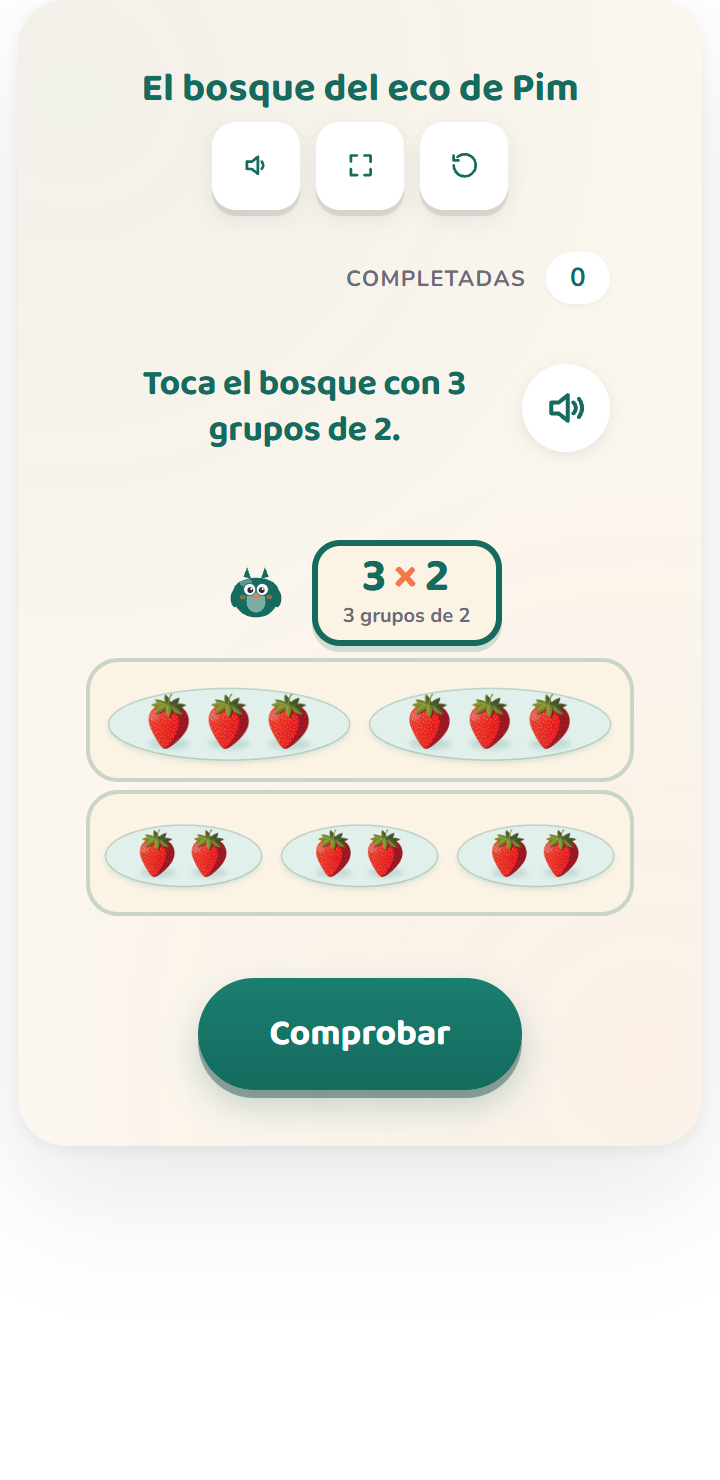
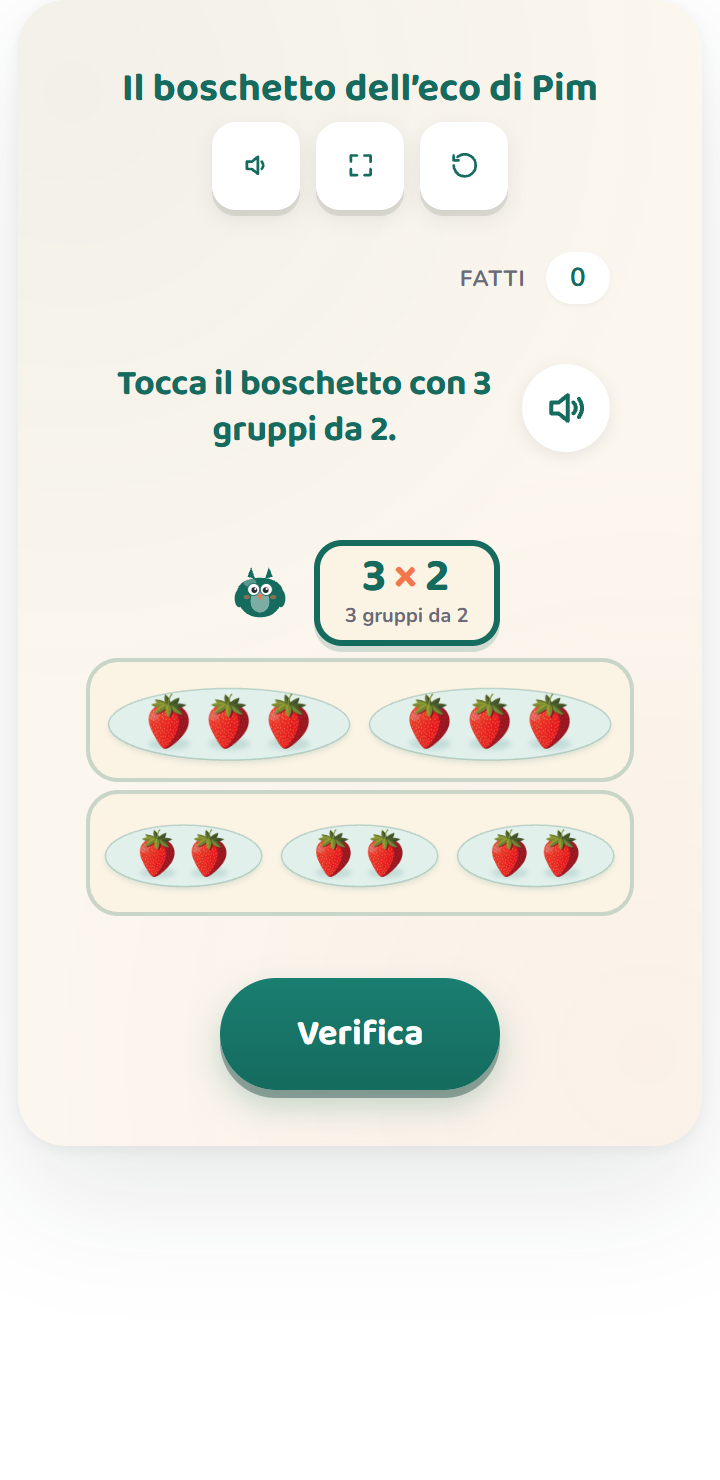
[FEATURE][I18N][IT] echo-grove #38 — Il boschetto dell'eco di Pim (moltiplicazione a gruppi uguali, classe seconda)
2nd it MATH: multiplication as equal groups (Pim the owl; read a rune g×s, tap the
grove with g gruppi da s, avoiding the same-total commutative twin). Rebuilt for the
Indicazioni nazionali. 3-agent native it ensemble.

- Activity-layer only: 0 lines to echo-grove-core.js / lcs-shell.* / Direction-A CSS.
- FRUIT_IT plurals (from canonical image-vocabulary.js) + 8 strings it: + cardLabel
  LANG-it branch + slug/page_title/page_intro it. No roundsL10n, no audio.
- GRADE classe seconda (GRADE_OVERRIDE it:'2') — de/fr/es/pt majority (meaning of
  multiplication = seconda; systematic tabelline = terza).
- STRAND «Numeri» AUTO (strand-names.ts, NO override). ⚠ the pt «Álgebra» auto-trap
  does NOT hit it — the it map already yields «Numeri».
- ⭐ Equal-groups wording «{g} gruppi da {s}» everywhere («da» = distributive "each");
  NEVER «per»/«volte» (the commutative shortcut this task blocks); × stays a silent glyph.
- Check button = «Verifica» (shell fact, lcs-shell.js) not «Controlla»; «Quando vuoi»
  dodges the pronto/pronta gender trap; «il gufo Pim»; 1 U+2019 in title «dell'eco».
- LOCAL only — NO deploy (it batch deploys at end).

Verify: FRUIT_IT 8/8 canonical + cardLabel it-branch + 8/8 strings + tokens + gruppi +
no per/volte + U+2019-only-in-title · verify-content-it 98/0 · preflight PASS · tsc 0-new ·
visual-qa it 48/48 + en 48/48 + it restore · personal Read 768 (2×3 cherries) / 360 (2×5
[…]

diff --git a/mini tools/echo-grove-activity.js b/mini tools/echo-grove-activity.js
@@ -52,6 +52,12 @@
     cherry: 'cerejas', strawberry: 'morangos', apple: 'maçãs', lemon: 'limões',
     pear: 'peras', banana: 'bananas', orange: 'laranjas', plum: 'ameixas'
   };
+  /* it — plurals from the canonical image-vocabulary.js (§20.5); native it math
+     ensemble confirmed. ⚠ «ciliegie» (not «ciliege»/«cilieggie»), «arance» (not «arancie»). */
+  var FRUIT_IT = {
+    cherry: 'ciliegie', strawberry: 'fragole', apple: 'mele', lemon: 'limoni',
+    pear: 'pere', banana: 'banane', orange: 'arance', plum: 'prugne'
+  };
 
   var C = {
     T: '#146B5E', BODY: '#E2F0EC', BOWL: '#EAF7EF', BOWL2: '#DCEFE9',
@@ -207,15 +213,15 @@
     id: 'echo-grove-activity',
 
     strings: {
-      title:       { en: 'The Echo Grove', de: 'Pims Echo-Hain', fr: 'Le bosquet de Pim', es: 'El bosque del eco de Pim', pt: 'O bosque do eco de Pim' },
-      instruction: { en: "Read Pim's rune, then tap the grove that matches it. Tap Check when you're ready.", de: 'Lies Pims Rune und tippe dann den Hain, der dazu passt. Tippe auf „Prüfen“, wenn du bereit bist.', fr: 'Lis la rune de Pim, puis touche le bosquet qui lui correspond. Touche Vérifier quand tu es prêt.', es: 'Lee la runa de Pim y luego toca el bosque que le corresponde. Toca «Comprobar» cuando estés listo.', pt: 'Leia a runa de Pim e depois toque no bosque que combina. Toque em Verificar quando estiver pronto.' },
-      /* {g} groups of {s} — the structure, the only numerals besides the rune */
-      prompt:      { en: 'Tap the grove with {g} groups of {s}.', de: 'Tippe den Hain mit {g} Gruppen mit je {s}.', fr: 'Touche le bosquet avec {g} groupes de {s}.', es: 'Toca el bosque con {g} grupos de {s}.', pt: 'Toque no bosque com {g} grupos de {s}.' },
-      hintPickOne: { en: 'Tap one of the groves first.', de: 'Tippe zuerst auf einen der Haine.', fr: 'Touche d’abord un des bosquets.', es: 'Primero toca uno de los bosques.', pt: 'Primeiro, toque em um dos bosques.' },
-      hintCount:   { en: 'Same fruit, different shape — count the groups.', de: 'Gleiche Früchte, andere Form – zähl die Gruppen.', fr: 'Mêmes fruits, forme différente — compte les groupes.', es: 'La misma fruta, en otra forma: cuenta los grupos.', pt: 'A mesma fruta, de outro jeito: conte os grupos.' },
-      runeGloss:   { en: '{g} groups of {s}', de: '{g} Gruppen mit je {s}', fr: '{g} groupes de {s}', es: '{g} grupos de {s}', pt: '{g} grupos de {s}' },
-      srRune:      { en: 'The rune says {g} groups of {s}.', de: 'Die Rune zeigt {g} Gruppen mit je {s}.', fr: 'La rune montre {g} groupes de {s}.', es: 'La runa muestra {g} grupos de {s}.', pt: 'A runa mostra {g} grupos de {s}.' },
-      cardLabel:   { en: 'A grove with {g} baskets, {s} {fruit} in each basket.', de: 'Ein Hain mit {g} Gruppen, in jeder Gruppe {s} {fruit}.', fr: 'Un bosquet avec {g} paniers, {s} {fruit} dans chaque panier.', es: 'Un bosque con {g} grupos, {s} {fruit} en cada grupo.', pt: 'Um bosque com {g} grupos, {s} {fruit} em cada grupo.' }
+      title:       { en: 'The Echo Grove', de: 'Pims Echo-Hain', fr: 'Le bosquet de Pim', es: 'El bosque del eco de Pim', pt: 'O bosque do eco de Pim', it: 'Il boschetto dell’eco di Pim' },
+      instruction: { en: "Read Pim's rune, then tap the grove that matches it. Tap Check when you're ready.", de: 'Lies Pims Rune und tippe dann den Hain, der dazu passt. Tippe auf „Prüfen“, wenn du bereit bist.', fr: 'Lis la rune de Pim, puis touche le bosquet qui lui correspond. Touche Vérifier quand tu es prêt.', es: 'Lee la runa de Pim y luego toca el bosque que le corresponde. Toca «Comprobar» cuando estés listo.', pt: 'Leia a runa de Pim e depois toque no bosque que combina. Toque em Verificar quando estiver pronto.', it: 'Leggi la runa di Pim, poi tocca il boschetto giusto. Quando vuoi, tocca Verifica.' },
+      /* {g} groups of {s} — the structure, the only numerals besides the rune. it: «{g} gruppi da {s}» (never «per»/«volte» — that is the commutative shortcut this task blocks) */
+      prompt:      { en: 'Tap the grove with {g} groups of {s}.', de: 'Tippe den Hain mit {g} Gruppen mit je {s}.', fr: 'Touche le bosquet avec {g} groupes de {s}.', es: 'Toca el bosque con {g} grupos de {s}.', pt: 'Toque no bosque com {g} grupos de {s}.', it: 'Tocca il boschetto con {g} gruppi da {s}.' },
+      hintPickOne: { en: 'Tap one of the groves first.', de: 'Tippe zuerst auf einen der Haine.', fr: 'Touche d’abord un des bosquets.', es: 'Primero toca uno de los bosques.', pt: 'Primeiro, toque em um dos bosques.', it: 'Prima tocca uno dei boschetti.' },
+      hintCount:   { en: 'Same fruit, different shape — count the groups.', de: 'Gleiche Früchte, andere Form – zähl die Gruppen.', fr: 'Mêmes fruits, forme différente — compte les groupes.', es: 'La misma fruta, en otra forma: cuenta los grupos.', pt: 'A mesma fruta, de outro jeito: conte os grupos.', it: 'Stessa frutta, forma diversa — conta i gruppi.' },
+      runeGloss:   { en: '{g} groups of {s}', de: '{g} Gruppen mit je {s}', fr: '{g} groupes de {s}', es: '{g} grupos de {s}', pt: '{g} grupos de {s}', it: '{g} gruppi da {s}' },
+      srRune:      { en: 'The rune says {g} groups of {s}.', de: 'Die Rune zeigt {g} Gruppen mit je {s}.', fr: 'La rune montre {g} groupes de {s}.', es: 'La runa muestra {g} grupos de {s}.', pt: 'A runa mostra {g} grupos de {s}.', it: 'La runa dice {g} gruppi da {s}.' },
+      cardLabel:   { en: 'A grove with {g} baskets, {s} {fruit} in each basket.', de: 'Ein Hain mit {g} Gruppen, in jeder Gruppe {s} {fruit}.', fr: 'Un bosquet avec {g} paniers, {s} {fruit} dans chaque panier.', es: 'Un bosque con {g} grupos, {s} {fruit} en cada grupo.', pt: 'Um bosque com {g} grupos, {s} {fruit} em cada grupo.', it: 'Un boschetto con {g} gruppi, {s} {fruit} in ogni gruppo.' }
     },
 
     defaults: {},
@@ -449,7 +455,7 @@
   var CHECK_SVG = '<svg viewBox="0 0 24 24" width="100%" height="100%" aria-hidden="true"><circle cx="12" cy="12" r="11" fill="' + C.GOOD + '"/><path d="M7 12.5l3.2 3.2L17 9" fill="none" stroke="#fff" stroke-width="2.4" stroke-linecap="round" stroke-linejoin="round"/></svg>';
   /* structure + fruit, ANSWER WITHHELD (identical phrasing for correct + decoys) */
   function cardLabel(api, c, fruit) {
-    var fl = (LANG === 'de' && FRUIT_DE[fruit]) ? FRUIT_DE[fruit] : (LANG === 'fr' && FRUIT_FR[fruit]) ? FRUIT_FR[fruit] : (LANG === 'es' && FRUIT_ES[fruit]) ? FRUIT_ES[fruit] : (LANG === 'pt' && FRUIT_PT[fruit]) ? FRUIT_PT[fruit] : fruit;
+    var fl = (LANG === 'de' && FRUIT_DE[fruit]) ? FRUIT_DE[fruit] : (LANG === 'fr' && FRUIT_FR[fruit]) ? FRUIT_FR[fruit] : (LANG === 'es' && FRUIT_ES[fruit]) ? FRUIT_ES[fruit] : (LANG === 'pt' && FRUIT_PT[fruit]) ? FRUIT_PT[fruit] : (LANG === 'it' && FRUIT_IT[fruit]) ? FRUIT_IT[fruit] : fruit;
     return interp(api.t('cardLabel'), { g: c.g, s: c.s, fruit: fl });
   }
 

diff --git a/frontend/app/[locale]/activities/[slug]/page.tsx b/frontend/app/[locale]/activities/[slug]/page.tsx
@@ -90,7 +90,7 @@ const GRADE_OVERRIDE: Record<string, Record<string, string>> = {
   'wordclass.adjective-adverb.l-2-1-e': { fr: '3' },                     // FR CE2: l'adverbe comme classe nommée + le CHOIX fonctionnel adjectif/adverbe = attendu de fin de cycle 2 (l'adjectif seul = CE1); the CCSS-Grade-2→CE1 auto-map under-levels it. en Grade 2 unchanged
   'halfway-harbors.nearest.3-nbt-a-1': { pt: '4' },                      // PT: arredondamento à dezena/centena = BNCC 4º ano (EF04MA cálculo por estimativa e arredondamento), NÃO 3º — graduar pela HABILIDADE, não pelo teto numérico (~1000); de/es/fr herdam o grade 3 nativo, só pt sobe
   'sunny-side-diner.compound-order.l-k-1-f': { fr: '1' },                // FR CP: produire une phrase complète + coordonner deux groupes avec « et » = charnière oral→écrit CP (au-dessus de la production orale GS, en deçà de l'analyse CE1); native 'K'→« Grande section » too low; en Kindergarten unchanged
-  'echo-grove.match-the-rune.3-oa-a-1': { de: '2', fr: '2', es: '2', pt: '2' },    // Multiplikation als gleiche Gruppen / kleines Einmaleins = DE Klasse 2 (US Grade 3 a year higher). FR CE1 (operator-ruled): le sens de la multiplication (groupes égaux, petits nombres, avant les tables) = attendu CE1 (CE2 = tables + multiplication posée); native '3'→CE2 too high; de Klasse-2 ≈ fr-CE1; twin of maple-bakery division-sens; « Nombres et calcul » auto-map → NO STRAND override. ES: la multiplicación como grupos iguales / suma de sumandos iguales = 2.º primaria en SEP/NEM (las tablas formales → 3.º); espeja numbers-court/ten-stones es:'2'. Strand auto "Sentido numérico" → NO STRAND override. PT: multiplicação como grupos iguais / adição de parcelas iguais = BNCC 2º ano (EF02MA07/08) → espelha es; ⚠ PT strand-map auto → "Álgebra" (ERRADO p/ 3.OA no BR) → STRAND override pt:"Números"
+  'echo-grove.match-the-rune.3-oa-a-1': { de: '2', fr: '2', es: '2', pt: '2', it: '2' },    // Multiplikation als gleiche Gruppen / kleines Einmaleins = DE Klasse 2 (US Grade 3 a year higher). FR CE1 (operator-ruled): le sens de la multiplication (groupes égaux, petits nombres, avant les tables) = attendu CE1 (CE2 = tables + multiplication posée); native '3'→CE2 too high; de Klasse-2 ≈ fr-CE1; twin of maple-bakery division-sens; « Nombres et calcul » auto-map → NO STRAND override. ES: la multiplicación como grupos iguales / suma de sumandos iguales = 2.º primaria en SEP/NEM (las tablas formales → 3.º); espeja numbers-court/ten-stones es:'2'. Strand auto "Sentido numérico" → NO STRAND override. PT: multiplicação como grupos iguais / adição de parcelas iguais = BNCC 2º ano (EF02MA07/08) → espelha es; ⚠ PT strand-map auto → "Álgebra" (ERRADO p/ 3.OA no BR) → STRAND override pt:"Números". IT: la moltiplicazione come gruppi uguali / raggruppamenti (numeri piccoli, il SENSO prima delle tabelline) = classe seconda nelle Indicazioni (le tabelline sistematiche = traguardo classe terza); strand auto → «Numeri» (nucleo corretto, NIENTE «Algebra» nella primaria) → NO STRAND override (a differenza di pt)
   'maple-bakery.share.3-oa-a-2': { de: '2', fr: '2' },                    // Division (Verteilen/Aufteilen, ohne Rest) introduced alongside Einmaleins = DE Klasse 2. FR CE1 (operator-ruled): division-SENS (partage/groupement, petits nombres, sans reste, imagé) = l'approche de la division au CE1 (CE2 formalise le quotient/reste); native '3'→CE2 too high; de Klasse-2 re-grade ≈ fr CE1; « Nombres et calcul » auto-map → NO STRAND override. ES: NO override — en MX la división (reparto/agrupamiento) entra en 3.º primaria, un año DESPUÉS de la multiplicación (#38 echo-grove es:'2'); grado nativo 3 → "3.º de primaria" (asimetría deliberada mult 2.º / div 3.º — NO igualar a echo-grove). Strand auto "Sentido numérico" → NO STRAND override
   'comet-kangaroo.tens-hundreds.2-nbt-b-8': { de: '3', es: '3', pt: '3' },         // 10/100 mehr-weniger im ZR bis 1000 = DE Klasse 3 (Tausenderraum; Klasse 2 = bis 100). ES: números hasta 1000 / valor posicional de 3 cifras = 3.º primaria en MX; espeja place-value-regroup 2-nbt-b-7 es:'3' (bis-1000 = 3º). PT: valor posicional de 3 algarismos + 10/100 a mais/a menos até 1000 = BNCC 3º ano (EF03MA01/02 números até milhar + composição/valor posicional; EF03MA05 cálculo mental); 2º = até centenas com material manipulável → o campo abstrato até 1000 é o salto 2º→3º. Strand auto-map (NBT→"Números") já correto → SEM STRAND_OVERRIDE pt
   'track-repair.count-to-120.1-nbt-a-1': { de: '2', fr: '1' },            // Orientierung am Zahlenstrahl bis 100 + skip-counting = DE Klasse 2 (ZR bis 20 = Klasse 1); US Grade 1 offset. FR CP (operator-ruled): la ligne numérique + compter en avant/arrière + de 5 en 5 / de 10 en 10 + placer les nombres jusqu'à ~100 = attendus du CP; la France fait 100 au CP (là où l'Allemagne a besoin de Klasse 2 — posy #71 precedent); le franchissement de la centaine (~103) = extension de fin de CP, pas le CE1 (jusqu'à 1000); CP → l'auto-map « Nombres et calcul » est correct → NO fr STRAND override
@@ -547,7 +547,7 @@ export default async function ActivityPage({ params }: { params: PageParams }) {
   // applied here to the iframe-loaded wrapper URL (the only un-busted
   // link in the activity-page → mini-tool chain). The wrapper reads
   // only `activity` / `lang` / `embed` params; `v` is harmless to it.
-  const ACTIVITY_WRAPPER_VERSION = '9.490';
+  const ACTIVITY_WRAPPER_VERSION = '9.491';
 
   const iframeSrc =
     `/mini-tools/${row.tool}.html?v=${ACTIVITY_WRAPPER_VERSION}` +

diff --git a/mini tools/echo-grove-activity.html b/mini tools/echo-grove-activity.html
@@ -17,7 +17,7 @@
        NOTE: bump ?v=N on EVERY change to echo-grove-activity.js (§A.13.42). -->
   <script src="/mini-tools/lcs-shell.js?v=5"></script>
   <script src="/mini-tools/echo-grove-core.js?v=1"></script>
-  <script src="/mini-tools/echo-grove-activity.js?v=25"></script>
+  <script src="/mini-tools/echo-grove-activity.js?v=26"></script>
   <script>
     LCS.mount(EchoGroveActivity, { mount: '#lcs-root' });
   </script>
